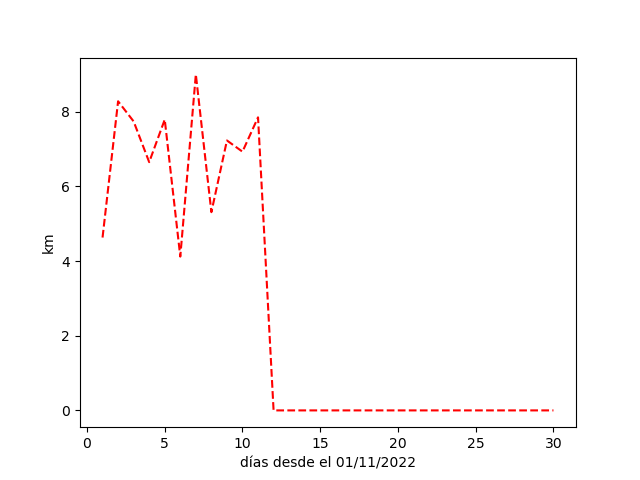
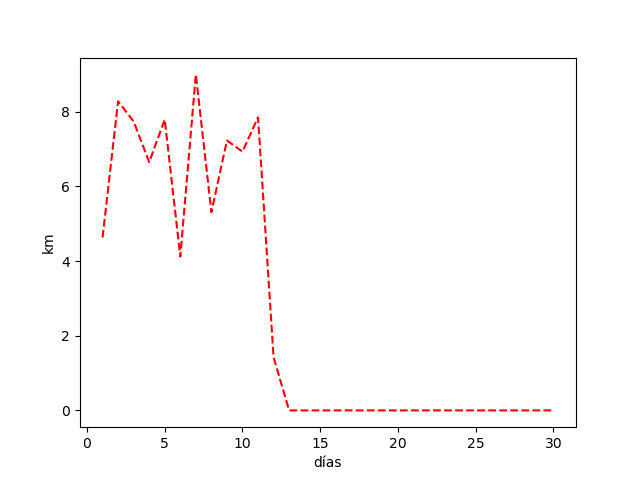
Scripts (minor) updates and new log

diff --git a/python/scripts/plotwalk.py b/python/scripts/plotwalk.py
@@ -6,7 +6,7 @@ import matplotlib.pyplot as plt
 x = data[0]
 y = data[1]
 plt.plot(x, y,'r--')
-plt.xlabel("días desde el 01/11/2022");
+plt.xlabel("días");
 plt.ylabel("km");
 
 plt.savefig('figures/walk.png')

diff --git a/python/scripts/plotreading.py b/python/scripts/plotreading.py
@@ -7,7 +7,7 @@ x = data[0]
 y = data[1]
 plt.plot(x, y,'r--')
 #plt.bar(x,y);
-plt.xlabel("días desde el 12/11/2022");
+plt.xlabel("días");
 plt.ylabel("páginas");
 
 plt.savefig('figures/reading.png')

diff --git a/python/scripts/plotwriting.py b/python/scripts/plotwriting.py
@@ -9,7 +9,7 @@ z = data[2]
 plt.bar(x,z);
 plt.plot(x, y,'r--')
 
-plt.xlabel("días desde el 12/11/2022");
+plt.xlabel("días");
 plt.ylabel("palabras");
 
 

diff --git a/_posts/2022-11-13-outlander.md b/_posts/2022-11-13-outlander.md
@@ -1,0 +1,12 @@
+---
+title: "Outlander"
+date: 2023-11-12T08:00:00+00:00
+author: Enrique Benimeli
+layout: post
+permalink: /outlander/
+categories: Cine
+tags: [series,TV]
+---
+![image](assets/images/posts/2022/11/outlander.jpeg)
+
+**IMDb** \| [Outlander](https://www.imdb.com/title/tt3006802/)
